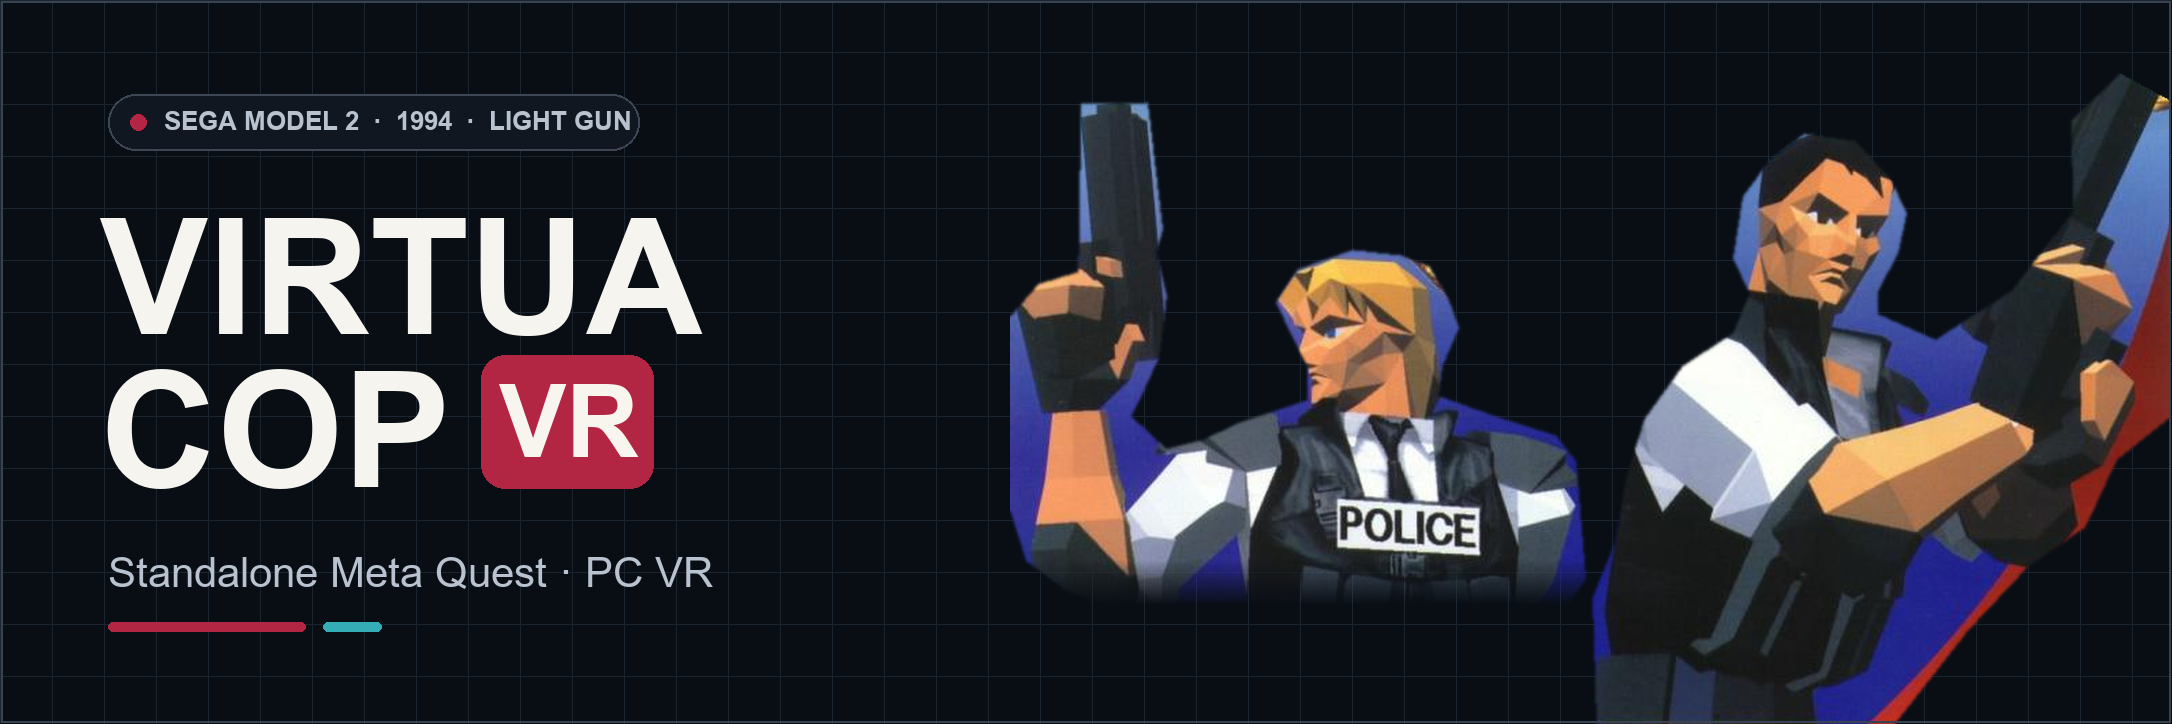
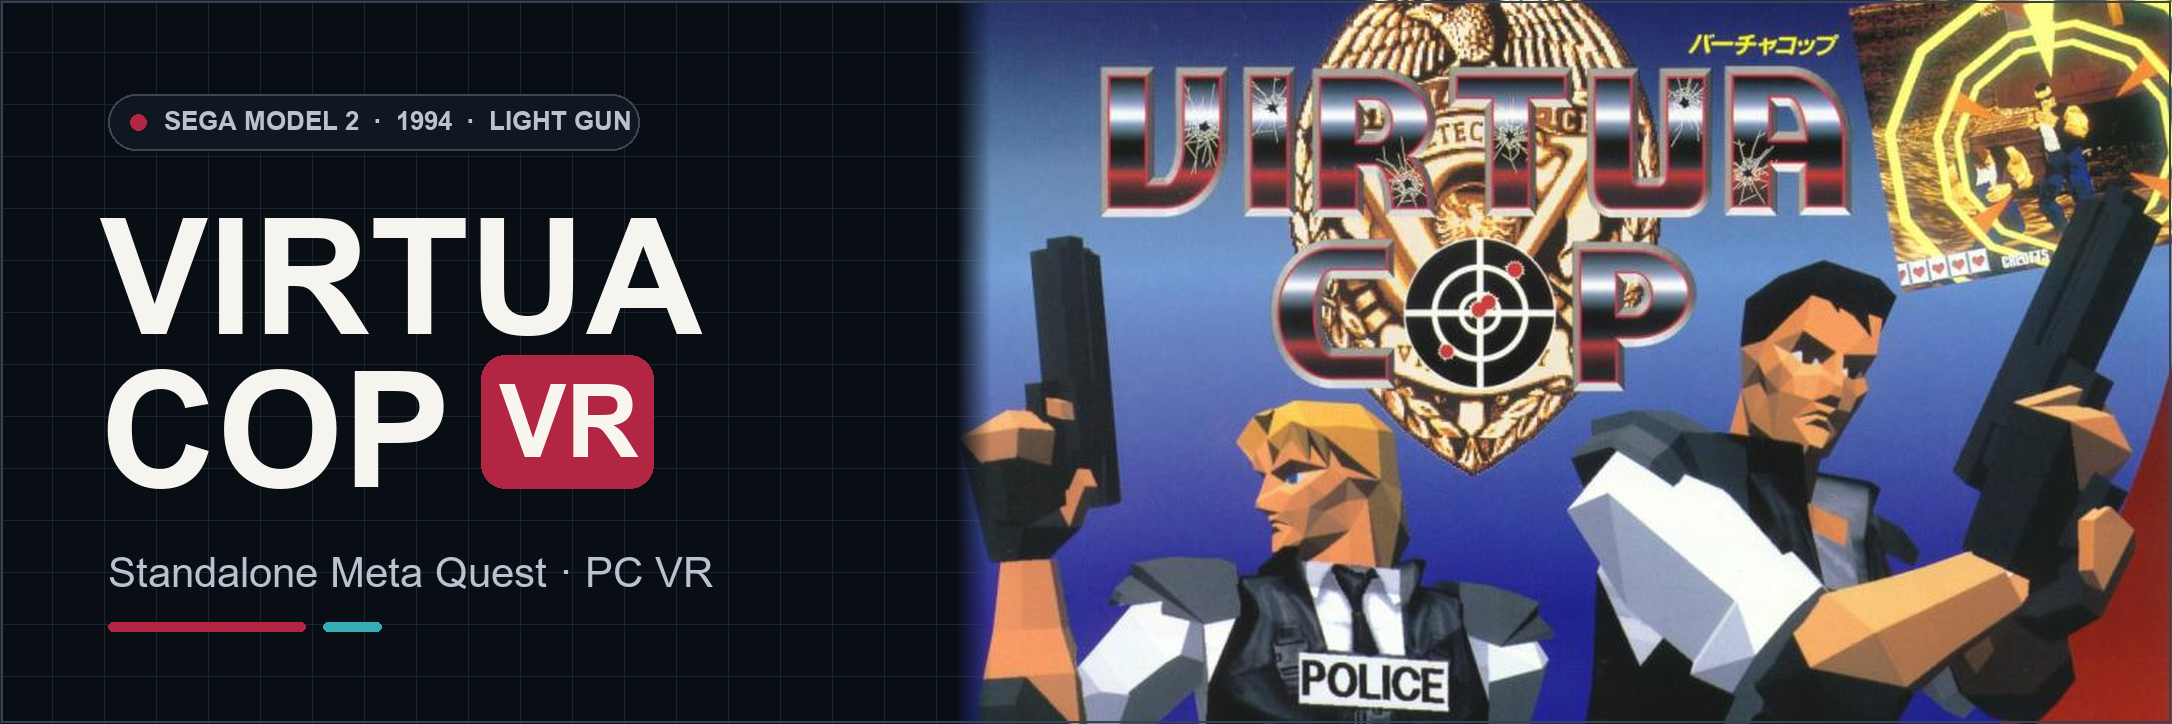
Match VR4ALL wide header with intact original Virtua Cop artwork

diff --git a/docs/github/ARTWORK.md b/docs/github/ARTWORK.md
@@ -1,5 +1,5 @@
 # Banner artwork
 
-Original Sega Virtua Cop arcade promotional flyer: [1994 Sega flyer](https://flyers.arcade-museum.com/arcades/show/1244). Original game artwork and trademarks belong to Sega.
+Original Sega Virtua Cop promotional flyer: [1994 Japanese Sega flyer](https://flyers.arcade-museum.com/arcades/show/1244). Original game artwork and trademarks belong to Sega.
 
-Composed into the established VR4ALL dark-grid, white-title, red-VR-badge header with original game art, using ordinary layout/cropping and typography. No AI-generated characters and no claim of a gameplay/headset screenshot.
+The right panel preserves the complete original-art section selected in the owner’s reference: its logo, blue backdrop, both officers and weapons remain together. No character cutouts or replacement scene were used. The panel keeps its original proportions. The overall 2172 × 724 header uses the same white title, red VR badge, platform line, metadata pill and accents as the other VR4ALL banners. No AI-generated artwork was added.
